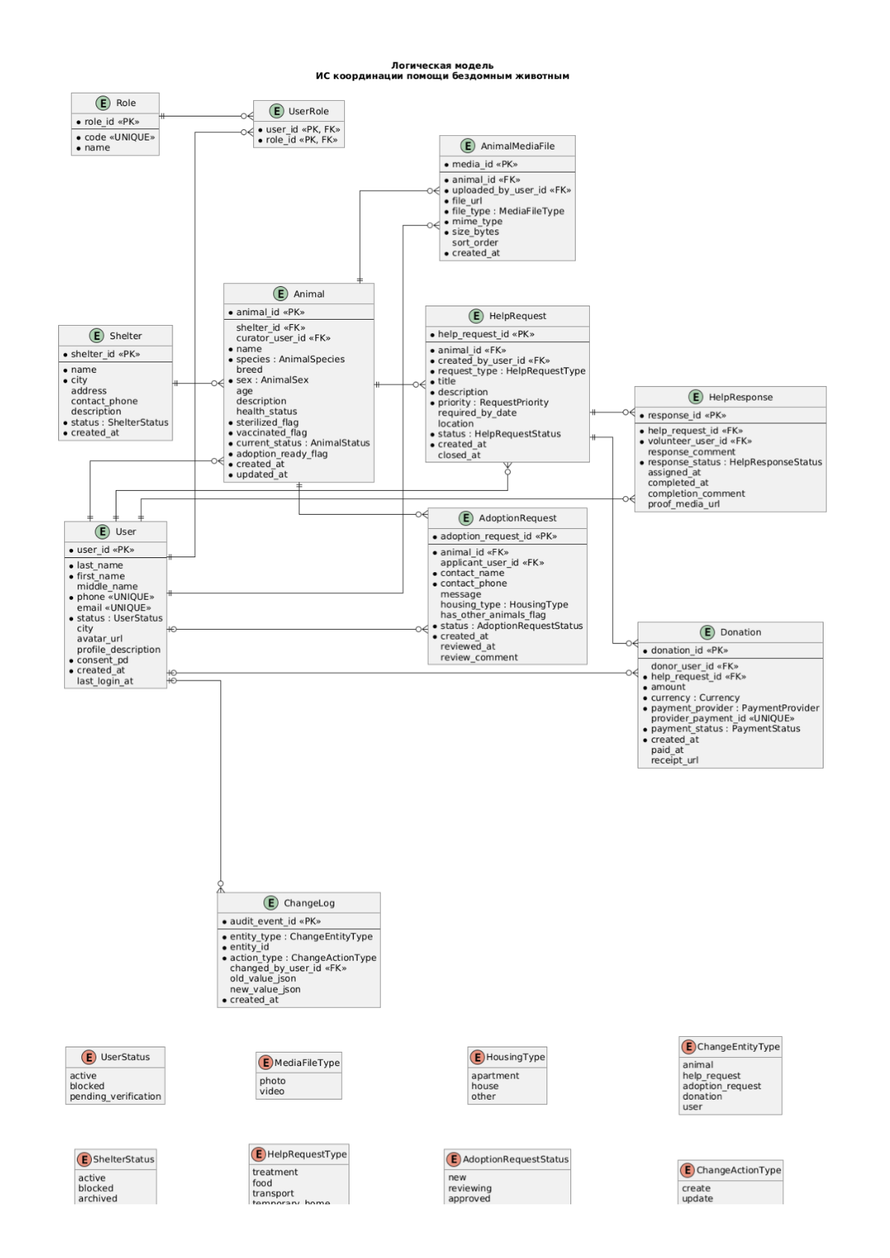
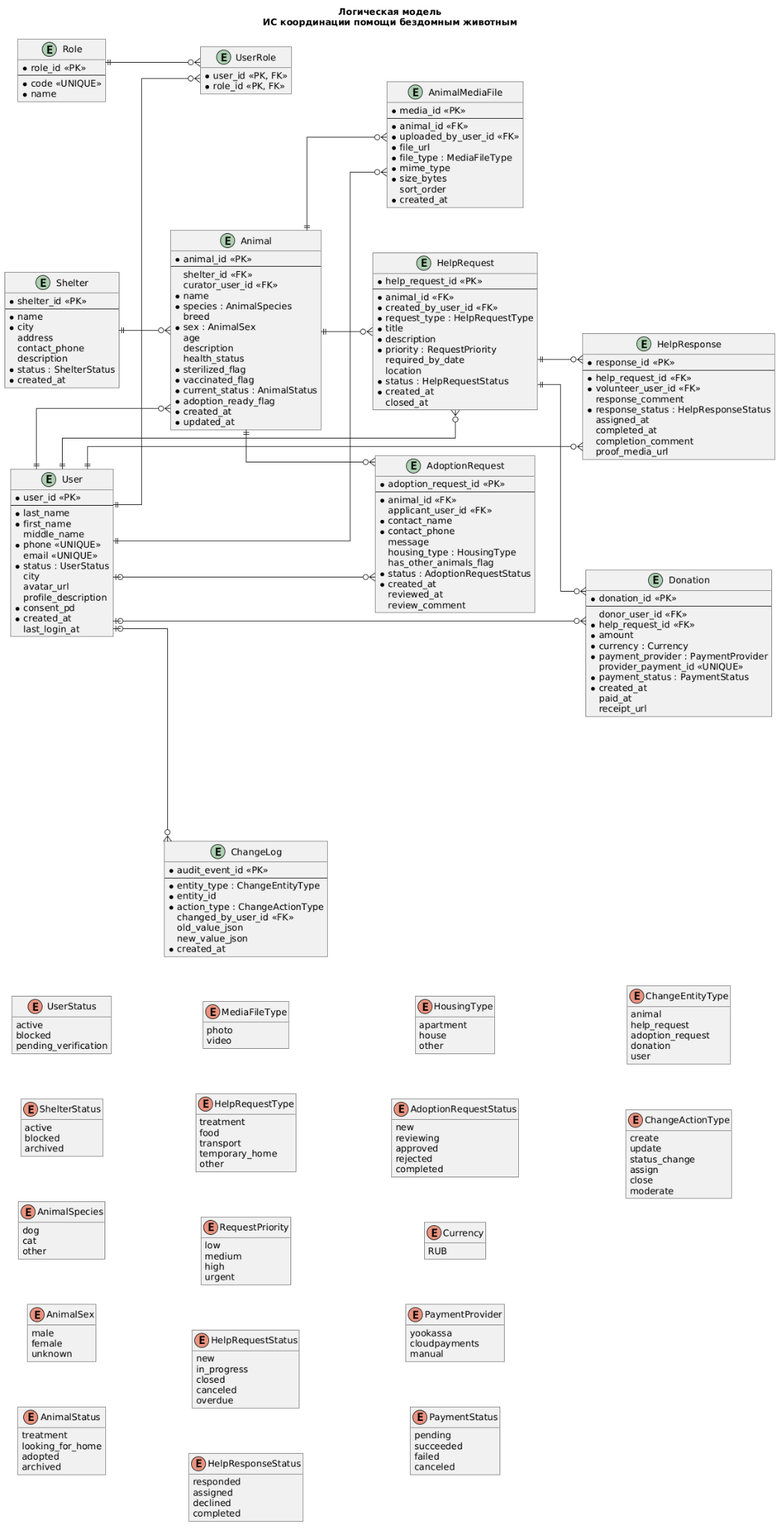
Fix README links and reload UML/ERD diagrams

diff --git a/docs/07-discovery/requirements-questions.md b/docs/07-discovery/requirements-questions.md
@@ -1,104 +1,17 @@
+# Вопросы для сбора требований
 
-
-||||
-|-|-|-|
-|**Вопрос и цель**|**Кому задавать**|**Почему именно этому стейкхолдеру**|
-|**Какие данные о потенциальном владельце вам действительно необходимы для принятия решения?**
-*Цель: Определить обязательные поля формы и избежать избыточных требований*|**Куратор / Приют
-
-Администратор системы**|**[Куратор / Приют]** Именно он принимает решение и знает, какие данные реально влияют на выбор
-
-**[Администратор системы]** Знает, какие данные уже собирает система и что технически хранится|
-|**Какие признаки в заявке говорят вам о высокой вероятности успешного пристройства?**
-*Цель: Выявить критерии оценки заявки и возможные бизнес-правила*|**Куратор / Приют
-
-Представитель по работе с приютами**|**[Куратор / Приют]** Обладает опытом и интуицией, может назвать паттерны успешных пристройств
-
-**[Представитель по работе с приютами]** Видит картину по нескольким приютам, может выявить общие паттерны|
-|**Бывали ли случаи, когда информации в заявке оказалось недостаточно? Чего именно не хватало?**
-*Цель: Найти пробелы в текущей модели данных*|**Куратор / Приют**|**[Куратор / Приют]** Имеет опыт реальных заявок и помнит конкретные случаи|
-|**Нужна ли предварительная фильтрация заявителей до того, как куратор увидит заявку?**
-*Цель: Понять необходимость автоматических проверок или скоринга*|**Куратор / Приют
-
-Product Owner**|**Куратор / Приют**
-Скажет, нужна ли ему такая фильтрация и снизит ли она нагрузку
-
-**Product Owner** Принимает решение о сложности реализации vs ценности функции|
-|**Что должно происходить после подачи заявки: автоматическое подтверждение, звонок, чат внутри системы?**
-
-*Цель: Определить ожидаемый пользовательский путь после отправки формы*|**Потенциальный пользователь
-
-Куратор / Приют
-
-Product Owner**|**[Потенциальный пользователь]** Он проходит этот путь, знает, что ему важно получить после отправки
-
-**[Куратор / Приют]** Должен подтвердить, какой канал связи ему удобен для ответа
-
-**[Product Owner]** Принимает решение об объёме функционала|
-|**Сколько времени вы готовы ждать ответа после подачи заявки?**
-
-*Цель: Определить требования к SLA и уведомлениям*|**Потенциальный пользователь
-
-Куратор / Приют**|**[Потенциальный пользователь]** Формирует ожидания со стороны спроса — его терпение определяет SLA
-
-**[Куратор / Приют]** Формирует реалистичный SLA со стороны предложения, сколько им нужно времени|
-|**В каких случаях вы отклоняете заявку на пристройство?**
-*Цель: Выявить бизнес-правила отказа и возможные статусы*|**Куратор / Приют**|**[Куратор / Приют]** Только он принимает решение об отказе и знает реальные причины|
-|**Нужно ли фиксировать причину отказа в системе? Должна ли она быть видна заявителю?**
-*Цель: Определить требования к прозрачности и истории изменений*|**Куратор / Приют
-
-Потенциальный пользователь
-
-Product Owner**|**[Куратор / Приют]** Решает, готов ли он публично объяснять отказы
-
-**[Потенциальный пользователь]** Хочет ли он знать причину, влияет на UX и доверие к платформе
-
-**[Product Owner]** Оценивает риски: публичные причины отказа могут создать конфликты|
-|**Что должно происходить с другими активными заявками, если животное уже пристроено?**
-*Цель: Проверить корректность сценария массового закрытия заявок*|**Куратор / Приют
-
-Потенциальный пользователь**|**[Куратор / Приют]** Знает текущий процесс и ожидает конкретного поведения системы
-
-**[Потенциальный пользователь** Должен получить корректное уведомление, проверяем его ожидания|
-|**Нужна ли система напоминаний куратору о необработанных заявках? Через какое время?**
-*Цель: Выявить требования к управлению просроченными заявками*|**Куратор / Приют
-
-Product Owner**|**[Куратор / Приют]** Оценит, раздражают ли его напоминания или помогают не забыть
-
-**[Product Owner]** Связывает с KPI «60% заявок за 14 дней» — напоминания могут быть ключевым инструментом|
-|**Хотели бы вы видеть историю предыдущих заявок пользователя (если он уже пытался взять животное)?**
-
-*Цель: Определить необходимость хранения истории взаимодействий*|**Куратор / Приют
-
-Администратор системы
-
-Product Owner**|**[Куратор / Приют]** Решает, повлияет ли история на его решение (доверие к заявителю)
-
-**[Администратор системы]** Оценивает сложность хранения и доступа к данным
-
-**[Product Owner]** Принимает решение о приоритете функции для MVP|
-|**Какие риски вы видите в текущем процессе пристройства?**
-
-*Цель: Выявить скрытые проблемы и граничные случаи*|**Куратор / Приют
-
- Представитель по работе с приютам
-
-Администратор системы**|**[Куратор / Приют]** Работает с процессом ежедневно — знает болевые точки из практики
-
-**[Представитель по работе с приютами]** Видит риски на уровне нескольких организаций
-
-**[Администратор системы]** Видит технические риски: дубли, мошенничество, некорректные данные|
-|**Какие метрики по заявкам на пристройство для вас важны (конверсия, срок рассмотрения и т.д.)?**
-
-*Цель: Определить требования к аналитике и KPI*|**Product Owner
-
- Инвестор / Заказчик проекта
-
- Представитель по работе с приютами**|**[Product Owner]** Отвечает за метрики продукта и KPI из концепции
-
-**[Инвестор / Заказчик проекта]** Интересуется эффективностью вложений — хочет видеть измеримые результаты
-
-**[Представитель по работе с приютами]** Может добавить операционные метрики, важные для приютов|
-
- 
-
+| Вопрос и цель | Кому задавать | Почему именно этому стейкхолдеру |
+| - | - | - |
+| **Какие данные о потенциальном владельце вам действительно необходимы для принятия решения?**<br>*Цель: Определить обязательные поля формы и избежать избыточных требований* | **Куратор / Приют**<br><br>**Администратор системы** | **[Куратор / Приют]** Именно он принимает решение и знает, какие данные реально влияют на выбор<br><br>**[Администратор системы]** Знает, какие данные уже собирает система и что технически хранится |
+| **Какие признаки в заявке говорят вам о высокой вероятности успешного пристройства?**<br>*Цель: Выявить критерии оценки заявки и возможные бизнес-правила* | **Куратор / Приют**<br><br>**Представитель по работе с приютами** | **[Куратор / Приют]** Обладает опытом и интуицией, может назвать паттерны успешных пристройств<br><br>**[Представитель по работе с приютами]** Видит картину по нескольким приютам, может выявить общие паттерны |
+| **Бывали ли случаи, когда информации в заявке оказалось недостаточно? Чего именно не хватало?**<br>*Цель: Найти пробелы в текущей модели данных* | **Куратор / Приют** | **[Куратор / Приют]** Имеет опыт реальных заявок и помнит конкретные случаи |
+| **Нужна ли предварительная фильтрация заявителей до того, как куратор увидит заявку?**<br>*Цель: Понять необходимость автоматических проверок или скоринга* | **Куратор / Приют**<br><br>**Product Owner** | **[Куратор / Приют]** Скажет, нужна ли ему такая фильтрация и снизит ли она нагрузку<br><br>**[Product Owner]** Принимает решение о сложности реализации vs ценности функции |
+| **Что должно происходить после подачи заявки: автоматическое подтверждение, звонок, чат внутри системы?**<br>*Цель: Определить ожидаемый пользовательский путь после отправки формы* | **Потенциальный пользователь**<br><br>**Куратор / Приют**<br><br>**Product Owner** | **[Потенциальный пользователь]** Он проходит этот путь, знает, что ему важно получить после отправки<br><br>**[Куратор / Приют]** Должен подтвердить, какой канал связи ему удобен для ответа<br><br>**[Product Owner]** Принимает решение об объёме функционала |
+| **Сколько времени вы готовы ждать ответа после подачи заявки?**<br>*Цель: Определить требования к SLA и уведомлениям* | **Потенциальный пользователь**<br><br>**Куратор / Приют** | **[Потенциальный пользователь]** Формирует ожидания со стороны спроса — его терпение определяет SLA<br><br>**[Куратор / Приют]** Формирует реалистичный SLA со стороны предложения, сколько им нужно времени |
+| **В каких случаях вы отклоняете заявку на пристройство?**<br>*Цель: Выявить бизнес-правила отказа и возможные статусы* | **Куратор / Приют** | **[Куратор / Приют]** Только он принимает решение об отказе и знает реальные причины |
+| **Нужно ли фиксировать причину отказа в системе? Должна ли она быть видна заявителю?**<br>*Цель: Определить требования к прозрачности и истории изменений* | **Куратор / Приют**<br><br>**Потенциальный пользователь**<br><br>**Product Owner** | **[Куратор / Приют]** Решает, готов ли он публично объяснять отказы<br><br>**[Потенциальный пользователь]** Хочет ли он знать причину, влияет на UX и доверие к платформе<br><br>**[Product Owner]** Оценивает риски: публичные причины отказа могут создать конфликты |
+| **Что должно происходить с другими активными заявками, если животное уже пристроено?**<br>*Цель: Проверить корректность сценария массового закрытия заявок* | **Куратор / Приют**<br><br>**Потенциальный пользователь** | **[Куратор / Приют]** Знает текущий процесс и ожидает конкретного поведения системы<br><br>**[Потенциальный пользователь]** Должен получить корректное уведомление, проверяем его ожидания |
+| **Нужна ли система напоминаний куратору о необработанных заявках? Через какое время?**<br>*Цель: Выявить требования к управлению просроченными заявками* | **Куратор / Приют**<br><br>**Product Owner** | **[Куратор / Приют]** Оценит, раздражают ли его напоминания или помогают не забыть<br><br>**[Product Owner]** Связывает с KPI «60% заявок за 14 дней» — напоминания могут быть ключевым инструментом |
+| **Хотели бы вы видеть историю предыдущих заявок пользователя (если он уже пытался взять животное)?**<br>*Цель: Определить необходимость хранения истории взаимодействий* | **Куратор / Приют**<br><br>**Администратор системы**<br><br>**Product Owner** | **[Куратор / Приют]** Решает, повлияет ли история на его решение (доверие к заявителю)<br><br>**[Администратор системы]** Оценивает сложность хранения и доступа к данным<br><br>**[Product Owner]** Принимает решение о приоритете функции для MVP |
+| **Какие риски вы видите в текущем процессе пристройства?**<br>*Цель: Выявить скрытые проблемы и граничные случаи* | **Куратор / Приют**<br><br>**Представитель по работе с приютами**<br><br>**Администратор системы** | **[Куратор / Приют]** Работает с процессом ежедневно — знает болевые точки из практики<br><br>**[Представитель по работе с приютами]** Видит риски на уровне нескольких организаций<br><br>**[Администратор системы]** Видит технические риски: дубли, мошенничество, некорректные данные |
+| **Какие метрики по заявкам на пристройство для вас важны (конверсия, срок рассмотрения и т.д.)?**<br>*Цель: Определить требования к аналитике и KPI* | **Product Owner**<br><br>**Инвестор / Заказчик проекта**<br><br>**Представитель по работе с приютами** | **[Product Owner]** Отвечает за метрики продукта и KPI из концепции<br><br>**[Инвестор / Заказчик проекта]** Интересуется эффективностью вложений — хочет видеть измеримые результаты<br><br>**[Представитель по работе с приютами]** Может добавить операционные метрики, важные для приютов |

diff --git a/README.md b/README.md
@@ -7,15 +7,21 @@
 Документация оформлена в формате Markdown в рамках подхода docs-as-code.
 
 ## Структура документации
-- Концепция системы
-- Требования
-- Модель данных
-- API
-- Архитектура
-- Frontend
-- Асинхронное взаимодействие
-- Управление и роли
-- Шаблоны недостающих артефактов
+- [Концепция системы](docs/01-concept/concept.md)
+- [Функциональные требования](docs/02-requirements/functional-requirements.md)
+- [Нефункциональные требования](docs/02-requirements/non-functional-requirements.md)
+- [Модель данных](docs/03-data-model/data-model.md)
+- [Определение сущностей и технологий хранения данных](docs/03-data-model/data-storage-technologies.md)
+- [API](docs/04-api/api-specification.md)
+- [Архитектура](docs/05-architecture/architecture-template.md)
+- [UML-диаграммы](docs/05-architecture/uml-diagrams.md)
+- [Frontend](docs/06-frontend/frontend-specification.md)
+- [Макеты интерфейса](docs/06-frontend/interface-mockups.md)
+- [BPMN](docs/06-processes/bpmn.md)
+- [Асинхронное взаимодействие](docs/07-async/async-interaction.md)
+- [Вопросы для сбора требований](docs/07-discovery/requirements-questions.md)
+- [Управление и роли](docs/08-management/raci-matrix.md)
+- [Шаблоны недостающих артефактов](docs/09-templates/)
 
 ## Как использовать
 Документация хранится в репозитории и может обновляться через Git.

diff --git a/docs/05-architecture/uml-diagrams.md b/docs/05-architecture/uml-diagrams.md
@@ -1,0 +1,9 @@
+# UML-диаграммы
+
+## Рисунок 2 — UML Use Case
+
+![Рисунок 2 — UML Use Case](uml-diagrams/use-case.png)
+
+## Рисунок 3 — UML Sequence
+
+![Рисунок 3 — UML Sequence](uml-diagrams/sequence.png)
